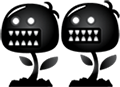
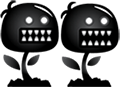
ground & flying enemies animated & spawning

diff --git a/GameObjects/Enemy.js b/GameObjects/Enemy.js
@@ -40,7 +40,7 @@ class BirdEnemy extends Enemy {
     constructor(){
         super();
         this.x = canvas.width;
-        this.y = Math.random() * (canvas.height - 100) + 50;
+        this.y = Math.random() * (canvas.height - 200);
         this.width = 60;
         this.height = 44;
         this.v = {
@@ -82,7 +82,48 @@ class BirdEnemy extends Enemy {
 }
 
 class GroundEnemy extends Enemy {
+    constructor(){
+        super();
+        this.width = 60;
+        this.height = 87;
+        this.x = 0;
+        this.y = canvas.height - (this.height +32);
+        this.v = {
+            x: -3,
+            y: 0
+        }
+        this.image.src = "../img/enemy_plant.png";
+        this.maxFrame = 1;
+        this.enemies = [];
+        this.enemyTimer = 0;
 
+        // Handle Ground Enemy Spawn Rate (Interval & Frequency)
+        this.enemyInterval = 400;
+        this.deltaTime = 10;
+    }
+
+    update(deltaTime){
+        super.update(deltaTime)
+        this.enemies.forEach((enemy) => {
+            enemy.draw();
+        })
+    };
+
+    addCars(){
+        this.enemies.push(new GroundEnemy());
+    };
+
+    handleCars(deltaTime) {
+        if (this.enemyTimer > this.enemyInterval) {
+            this.addCars();
+            this.enemyTimer = 0;
+        } else {
+            this.enemyTimer += deltaTime;
+        }
+        this.enemies.forEach((car) => {
+            car.update(deltaTime);
+        })
+    };
 }
 
 export {Enemy, BirdEnemy, GroundEnemy}

diff --git a/main.js b/main.js
@@ -1,7 +1,7 @@
 import {Player} from "./GameObjects/Player.js";
 import {Sprite} from "./GameObjects/Sprite.js";
 import { collisionBlocks} from "./map/collisionUtils.js";
-import {Enemy, BirdEnemy, GroundEnemy} from "./GameObjects/Enemy.js";
+import {BirdEnemy, GroundEnemy} from "./GameObjects/Enemy.js";
 
 // Canvas Setup
 const canvas = document.getElementById("canvas");
@@ -10,8 +10,10 @@ canvas.width = 1024;
 canvas.height = 768;
 
 // Player Figure (x, y, width, height, {collisionBlocks})
-const player = new Player(canvas.width/2 - 48, 0, 64, 64, {collisionBlocks: collisionBlocks});
+const player = new Player(canvas.width/2 - 48, 0, 44, 44, {collisionBlocks: collisionBlocks});
+// Enemy Figures
 const birdEnemies = new BirdEnemy();
+const carEnemies = new GroundEnemy();
 
 // Background Sprite
 const background1 = new Sprite(0, 0, "../img/backgroundclouds.png");
@@ -45,6 +47,9 @@ function gameLoop() {
     // Draw & Update Bird Enemies
     birdEnemies.handleBirds(2);
     birdEnemies.update();
+    // Draw & Update Ground Enemies
+    carEnemies.handleCars(2);
+    carEnemies.update();
 
     requestAnimationFrame(gameLoop);
 }
@@ -55,7 +60,7 @@ window.addEventListener("keydown", (e) => {
     switch (e.key) {
         case "w":
             if (player.v.y === 0) {
-                player.v.y = -20;}
+                player.v.y = -15;}
             break;
         case "a":
             keys.a = true;

diff --git a/map/map1.js b/map/map1.js
@@ -22,7 +22,7 @@ const platformMap1 = [
             0, 0, 0, 0, 0, 0, 0, 0, 0, 0, 0, 0, 0, 0, 0, 0, 0, 0, 0, 0, 0, 0, 0, 0, 0, 0, 0, 0, 0, 0, 0, 0,
             0, 0, 0, 0, 0, 0, 0, 0, 0, 0, 0, 0, 0, 0, 0, 0, 0, 0, 0, 0, 0, 0, 0, 0, 0, 0, 0, 0, 0, 0, 0, 0,
             0, 0, 0, 0, 0, 0, 0, 0, 0, 0, 0, 0, 0, 0, 0, 0, 0, 0, 0, 0, 0, 0, 0, 0, 0, 0, 0, 0, 0, 0, 0, 0,
-            0, 0, 0, 0, 0, 0, 0, 0, 0, 0, 0, 0, 0, 0, 0, 0, 0, 0, 0, 0, 0, 0, 0, 0, 0, 0, 0, 0, 0, 0, 0, 0
+            1, 1, 1, 1, 1, 1, 1, 1, 1, 1, 1, 1, 1, 1, 1, 1, 1, 1, 1, 1, 1, 1, 1, 1, 1, 1, 1, 1, 1, 1, 1, 1
       ];
 
 export {platformMap1}

diff --git a/GameObjects/Player.js b/GameObjects/Player.js
@@ -40,7 +40,6 @@ class Player extends GameObject {
         
     }
 
-
     // Collision detection with Collision Blocks
         for (let i = 0; i < this.collisionBlocks.length; i++) {
             const block = this.collisionBlocks[i];
